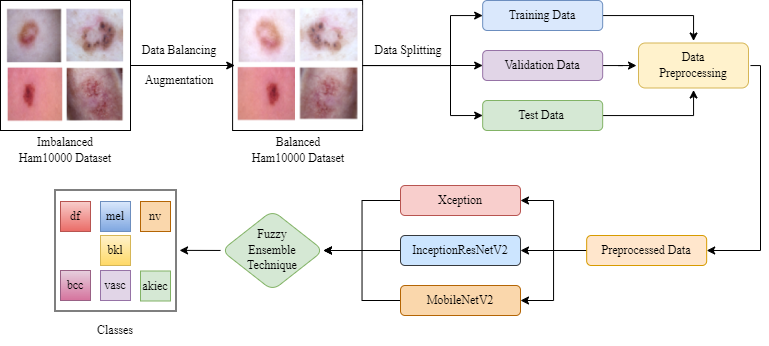
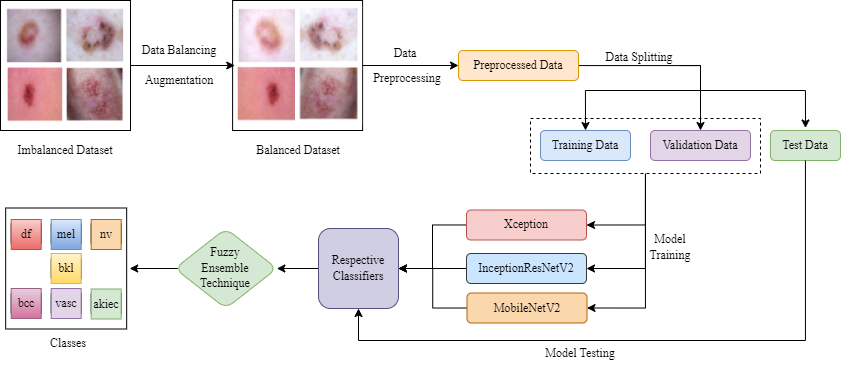
Flow Diagram updated

diff --git a/README.md b/README.md
@@ -1,10 +1,10 @@
-# A Fuzzy Deep Ensemble Methodology for Classifying Skin Cancer Images
-Arindam Halder, Sanghita Gharami, Anogh Dalal, Pawan Kumar Singh<sup>[[0000-0002-9598-7981](https://orcid.org/0000-0002-9598-7981)]</sup>
+# A Fuzzy Rank-based Deep Ensemble Methodology for Multi-Class Skin Cancer Classification
+Arindam Halder, Anogh Dalal, Sanghita Gharami, Pawan Kumar Singh<sup>[[0000-0002-9598-7981](https://orcid.org/0000-0002-9598-7981)]</sup>
 
 ### Directory Structure
 
 ```
-+-- assets
++-- assets/
 +-- DermaMNIST_FuzzyEnsemble.ipynb
 +-- GradCAM_DermaMNIST.ipynb
 +-- Ham10000_FuzzyEnsemble_GradCAM.ipynb
@@ -20,7 +20,7 @@ Arindam Halder, Sanghita Gharami, Anogh Dalal, Pawan Kumar Singh<sup>[[0000-0002
 - Run ``DermaMNIST_FuzzyEnsemble.ipynb`` file to view the result of our fuzzy ensemble model on DermaMNIST dataset.
 - To visualise GradCAM analysis on DermaMNIST dataset, run the ``GradCAM_DermaMNIST.ipynb`` file.<br>
 
-``assets`` directory contains all the images of our study including result, architectures etc.
+``assets`` directory contains all the images of our study including results, architectures etc.
 
 
 
